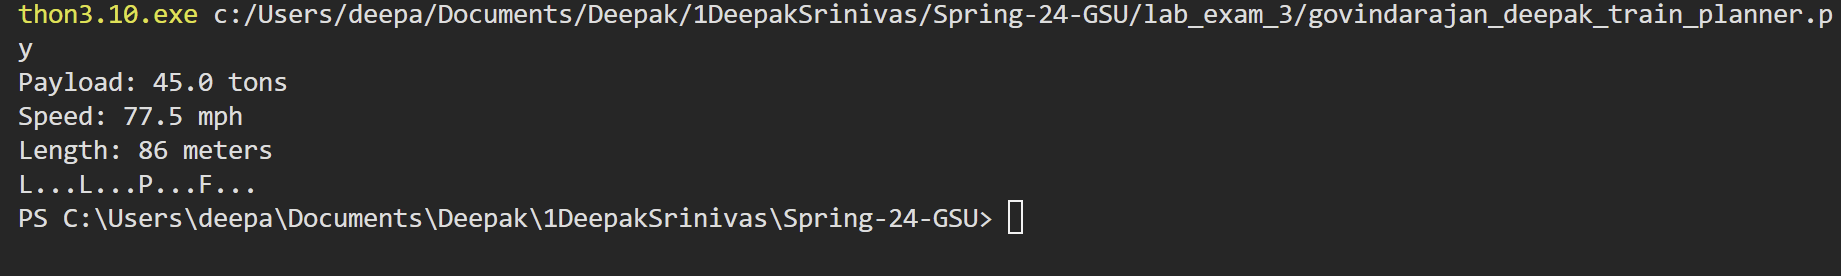
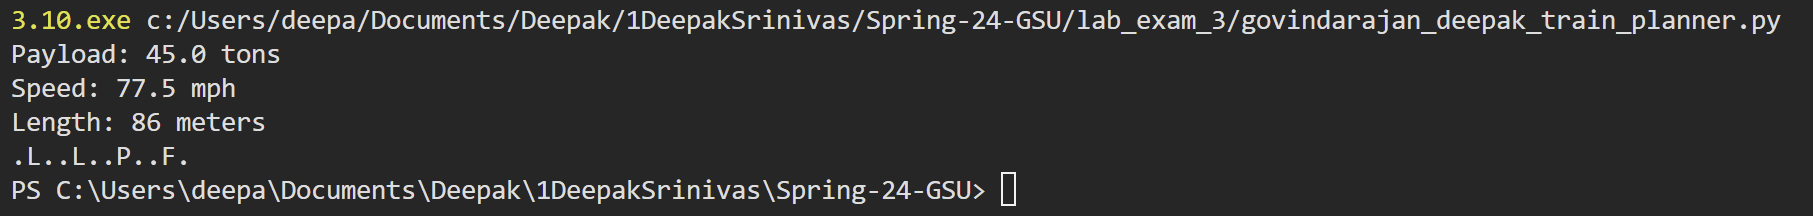
added changes to print_train

diff --git a/lab_exam_3/govindarajan_deepak_train_planner.py b/lab_exam_3/govindarajan_deepak_train_planner.py
@@ -89,7 +89,7 @@ class Train:
                 composition.append('F')
         
         for i in range(len(composition)):
-            print(composition[i],end='...')
+            print(f".{composition[i]}",end='.')
 
 
 train1=Train()
